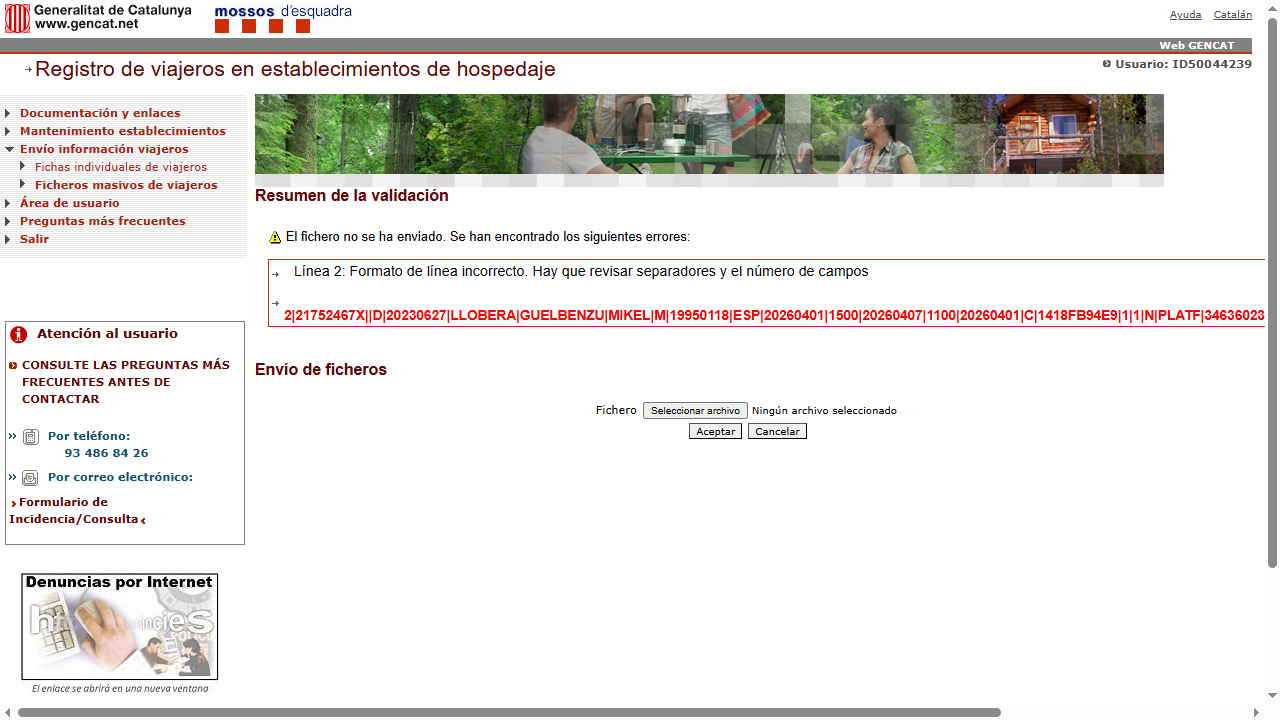
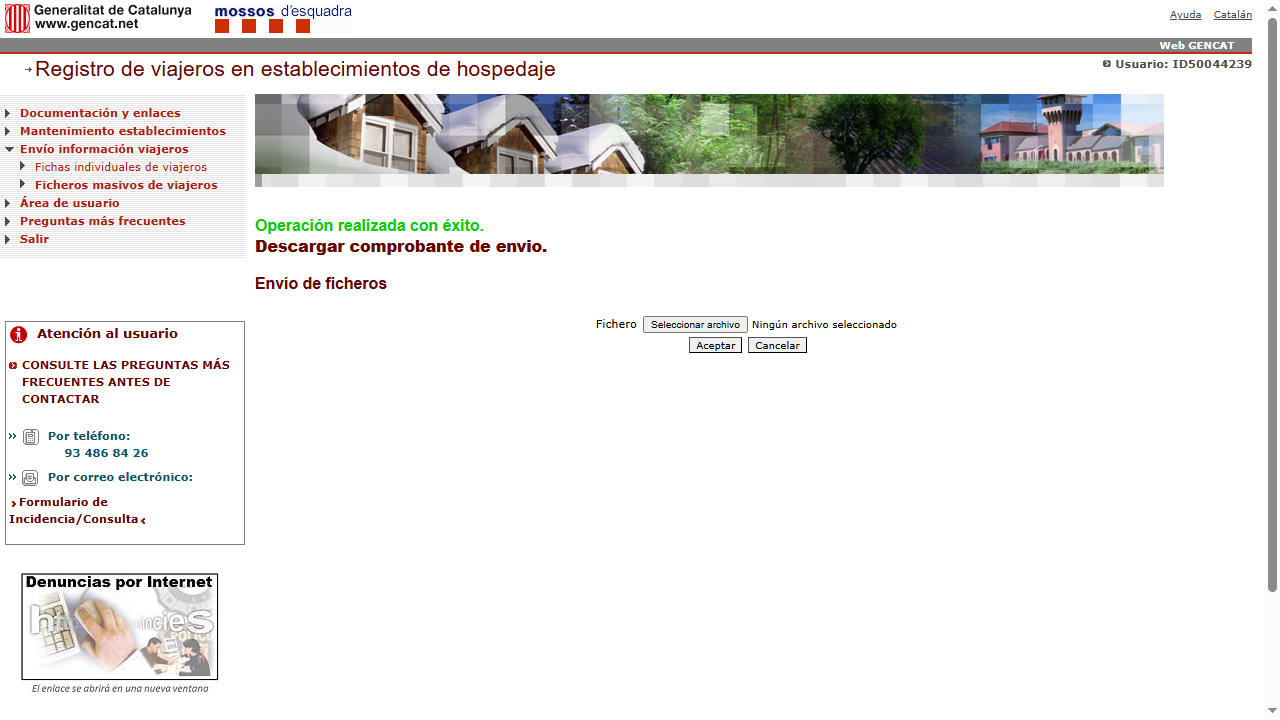
added secs

diff --git a/upload_mossos.js b/upload_mossos.js
@@ -8,9 +8,50 @@ const { chromium } = require('playwright');
 const path = require('path');
 const fs = require('fs');
 
+const REGISTROS_DIR = path.join(require('os').homedir(), 'Documents', 'Mossos_Registros');
+if (!fs.existsSync(REGISTROS_DIR)) fs.mkdirSync(REGISTROS_DIR, { recursive: true });
+
 const MOSSOS_LOGIN_URL = 'https://registreviatgers.mossos.gencat.cat/mossos_hotels/AppJava/login.do';
 const USER = process.env.MOSSOS_USER;
 const PASS = process.env.MOSSOS_PASS;
+const TG_TOKEN = process.env.TELEGRAM_BOT_TOKEN;
+const TG_CHAT  = process.env.TELEGRAM_CHAT_ID;
+
+async function tg(text, filePath) {
+  if (!TG_TOKEN || !TG_CHAT) return;
+  try {
+    if (filePath && fs.existsSync(filePath)) {
+      const FormData = require('form-data');
+      const fd = new FormData();
+      fd.append('chat_id', TG_CHAT);
+      fd.append('document', fs.createReadStream(filePath));
+      fd.append('caption', text);
+      fd.append('parse_mode', 'Markdown');
+      const https = require('https');
+      await new Promise((resolve, reject) => {
+        const req = https.request(`https://api.telegram.org/bot${TG_TOKEN}/sendDocument`,
+          { method:'POST', headers: fd.getHeaders() },
+          res => { res.resume(); res.on('end', resolve); }
+        );
+        req.on('error', reject);
+        fd.pipe(req);
+      });
+    } else {
+      const https = require('https');
+      const body = JSON.stringify({ chat_id: TG_CHAT, text, parse_mode: 'Markdown' });
+      await new Promise((resolve, reject) => {
+        const req = https.request('https://api.telegram.org/bot' + TG_TOKEN + '/sendMessage',
+          { method:'POST', headers:{'Content-Type':'application/json','Content-Length':Buffer.byteLength(body)} },
+          res => { res.resume(); res.on('end', resolve); }
+        );
+        req.on('error', reject);
+        req.write(body); req.end();
+      });
+    }
+  } catch(e) {
+    console.warn('Telegram error:', e.message);
+  }
+}
 
 async function uploadToMossos(filePath) {
   const absPath = path.resolve(filePath);
@@ -23,8 +64,13 @@ async function uploadToMossos(filePath) {
     process.exit(1);
   }
 
+  const baseName = path.basename(absPath, '.txt');
+  const registroTxt = path.join(REGISTROS_DIR, path.basename(absPath));
+  fs.copyFileSync(absPath, registroTxt);
+
   console.log(`\n🤖 Robot Mossos iniciando...`);
   console.log(`📄 Fichero: ${path.basename(absPath)}`);
+  console.log(`📁 Guardado en registros/`);
 
   const browser = await chromium.launch({ headless: false, slowMo: 600 });
   const page = await browser.newPage();
@@ -93,22 +139,29 @@ async function uploadToMossos(filePath) {
     if (result.includes('èxit') || result.includes('correctament') || result.includes('éxito') || result.includes('correcta')) {
       console.log('\n✅✅✅ FICHERO ENVIADO CORRECTAMENTE A MOSSOS ✅✅✅');
       const comprovant = page.locator('a:has-text("comprovant"), a:has-text("Descarregar"), a:has-text("comprobante")');
+      let pdfPath = null;
       if (await comprovant.count() > 0) {
         const [download] = await Promise.all([
           page.waitForEvent('download'),
           comprovant.first().click()
         ]);
-        const savePath = path.join(path.dirname(absPath), 'comprovant_' + path.basename(absPath, '.txt') + '.pdf');
-        await download.saveAs(savePath);
-        console.log(`   📥 Comprovant guardado: ${path.basename(savePath)}`);
+        pdfPath = path.join(REGISTROS_DIR, 'comprovant_' + baseName + '.pdf');
+        await download.saveAs(pdfPath);
+        console.log(`   📥 Comprovant guardado: ${path.basename(pdfPath)}`);
       }
+      await tg(
+        `✅ *Mossos — Subida correcta*\n📄 \`${path.basename(absPath)}\`\n📥 Comprovant adjunto`,
+        pdfPath
+      );
     } else {
       console.log('\n⚠  No se pudo confirmar. Ver mossos_result.png');
+      await tg(`⚠ *Mossos — Sin confirmación*\n📄 \`${path.basename(absPath)}\`\nRevisa mossos_result.png`);
     }
 
   } catch (err) {
     console.error(`\n❌ Error: ${err.message}`);
     await page.screenshot({ path: 'mossos_error.png' }).catch(() => {});
+    await tg(`❌ *Mossos — Error*\n📄 \`${path.basename(absPath)}\`\n🔴 ${err.message}`);
   } finally {
     await page.waitForTimeout(2000);
     await browser.close();

diff --git a/index.html b/index.html
@@ -781,6 +781,8 @@ let guestsList = [];  // accumulated guests before generating file
 // ═══════════════════════════════════════════════════════════
 const _AK = '__ANTHROPIC_API_KEY__';
 function getKey() { return _AK; }
+const _TG_TOKEN = '__TELEGRAM_BOT_TOKEN__';
+const _TG_CHAT  = '__TELEGRAM_CHAT_ID__';
 function initKey() {
   document.getElementById('api-banner').style.display = 'none';
 }
@@ -1321,6 +1323,36 @@ function doDownload() {
   const a = document.createElement('a');
   a.href = url; a.download = fname; a.click();
   URL.revokeObjectURL(url);
+  sendTelegramNotification(fname, blob);
+}
+
+async function sendTelegramNotification(fname, blob) {
+  if (!_TG_TOKEN || _TG_TOKEN.startsWith('__')) return;
+  const allGuests = [...guestsList, readCurrentGuest()];
+  const names = allGuests.map(g => `${g[5]} ${g[3]} ${g[4]}`.trim()).join(', ');
+  const reserva = v('f-reserva') || '—';
+  const entrada = v('f-entrada') || '—';
+  const salida  = v('f-salida')  || '—';
+  const hab = document.querySelector('.room-card.selected .room-name')?.textContent || ESTAB.nom;
+
+  const text = `🏠 *Check-in completado*\n` +
+    `📋 Reserva: \`${reserva}\`\n` +
+    `🛏 Habitación: ${hab}\n` +
+    `👤 Huésped${allGuests.length > 1 ? 'es' : ''}: ${names}\n` +
+    `📅 ${entrada} → ${salida}\n` +
+    `📄 Fichero: \`${fname}\`\n` +
+    `⏳ _Pendiente subir a Mossos_`;
+
+  try {
+    const fd = new FormData();
+    fd.append('chat_id', _TG_CHAT);
+    fd.append('document', blob, fname);
+    fd.append('caption', text);
+    fd.append('parse_mode', 'Markdown');
+    await fetch(`https://api.telegram.org/bot${_TG_TOKEN}/sendDocument`, { method:'POST', body:fd });
+  } catch(e) {
+    console.warn('Telegram notification failed:', e.message);
+  }
 }
 
 // ═══════════════════════════════════════════════════════════
